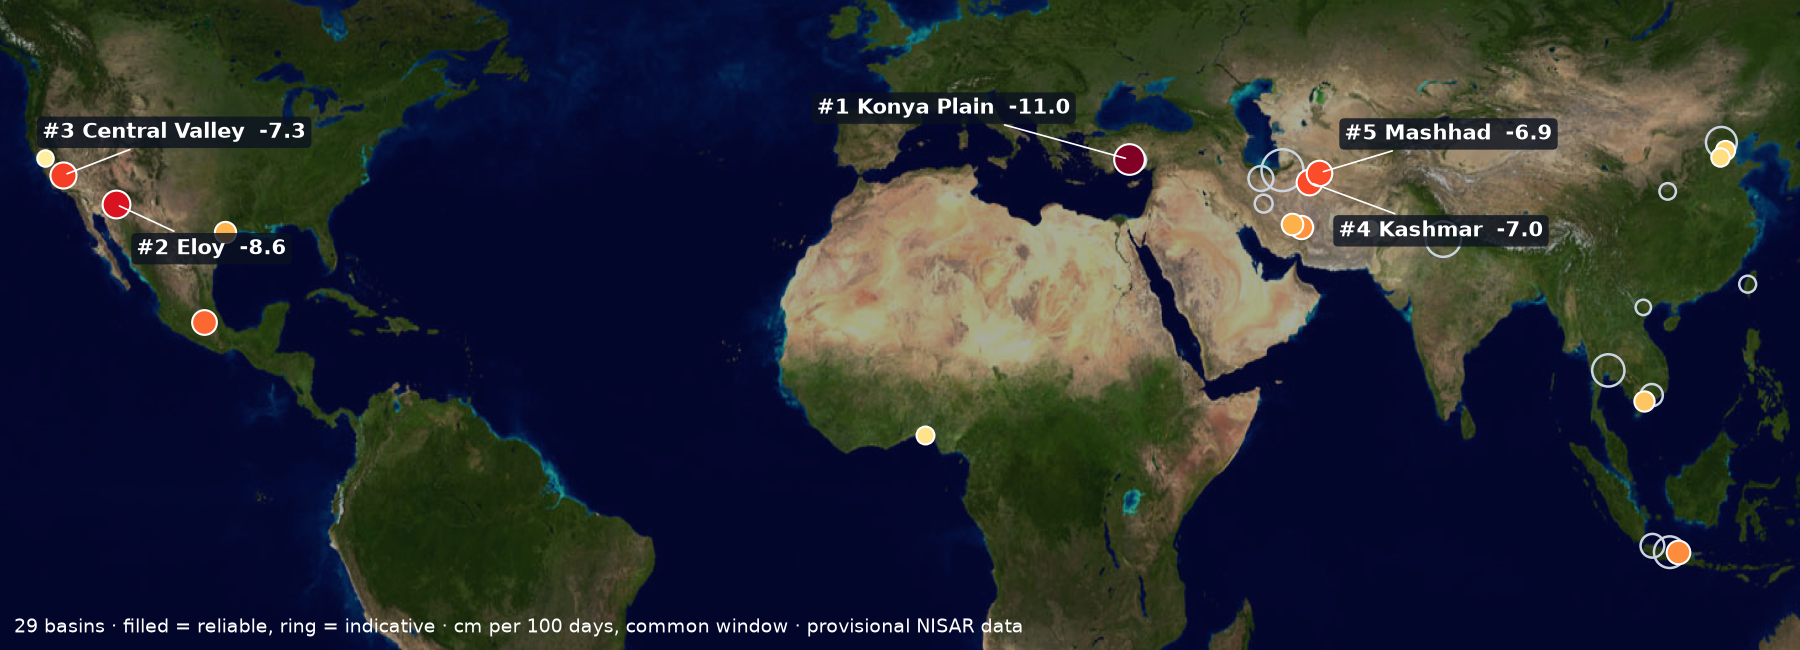
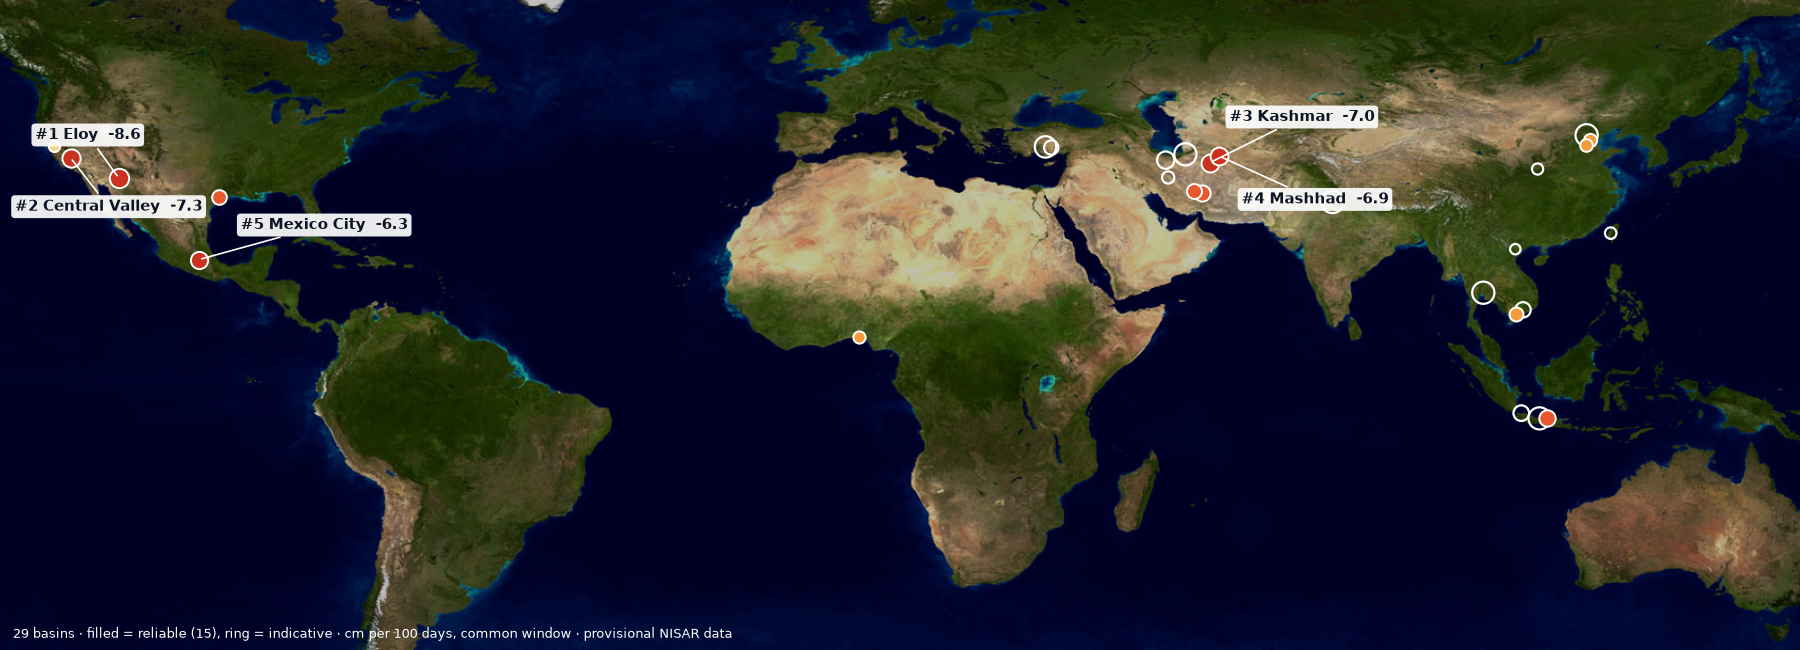
[PC1] giris haritasi yeni siralamayla (#1 Eloy, 15 guvenilir); tools/render_atlas_world.py ile tekrar uretilebilir

diff --git a/tools/render_atlas_world.py b/tools/render_atlas_world.py
@@ -1,0 +1,71 @@
+"""Render the home-page world map from data/global/atlas.json on NASA Blue Marble (PC1).
+
+Filled circle = reliable, ring = indicative; the five fastest reliable basins are labelled.
+Writes docs/story/media/pc1_atlas_world.png and web/assets/atlas_world.{webp,jpg}.
+Usage: python tools/render_atlas_world.py
+"""
+import json
+from pathlib import Path
+
+import matplotlib
+matplotlib.use("Agg")
+import matplotlib.pyplot as plt
+from PIL import Image
+
+ROOT = Path(__file__).resolve().parent.parent
+atlas = json.loads((ROOT / "data/global/atlas.json").read_text(encoding="utf-8"))
+bm = Image.open(ROOT / "web/assets/bluemarble_2k.jpg")
+
+W, H = 1800, 650
+LAT0, LAT1 = -45, 62
+fig = plt.figure(figsize=(W / 100, H / 100), dpi=100)
+ax = fig.add_axes([0, 0, 1, 1])
+ax.imshow(bm, extent=[-180, 180, -90, 90], aspect="auto")
+ax.imshow([[0]], extent=[-180, 180, -90, 90], cmap="gray", alpha=0.25, aspect="auto")
+ax.set_xlim(-130, 150)
+ax.set_ylim(LAT0, LAT1)
+ax.axis("off")
+
+
+def colour(rate):
+    if rate is None:
+        return "#9aa3b0"
+    if rate <= -6:
+        return "#c8321f"
+    if rate <= -4:
+        return "#e8572e"
+    if rate <= -2:
+        return "#f39c3d"
+    return "#f6d28a"
+
+
+top = [r for r in atlas["regions"] if not r.get("indicative_only")][:5]
+for r in atlas["regions"]:
+    if r.get("lon") is None:
+        continue
+    rate = r.get("rate_cm_per_100d_common")
+    size = 40 + 18 * min(abs(rate or 0), 12)
+    if r.get("indicative_only"):
+        ax.scatter(r["lon"], r["lat"], s=size, facecolors="none", edgecolors="#ffffff", linewidths=1.6, zorder=3)
+    else:
+        ax.scatter(r["lon"], r["lat"], s=size, c=colour(rate), edgecolors="#ffffff", linewidths=1.4, zorder=4)
+
+offsets = [(-60, 28), (-40, -38), (14, 30), (16, -34), (30, 22)]
+for i, r in enumerate(top):
+    dx, dy = offsets[i % len(offsets)]
+    ax.annotate(f"#{i + 1} {r['name'].split(' (')[0]}  {r['rate_cm_per_100d_common']:.1f}",
+                (r["lon"], r["lat"]), xytext=(dx, dy), textcoords="offset points",
+                fontsize=11, fontweight="bold", color="#0d1524",
+                bbox=dict(boxstyle="round,pad=0.25", fc="white", ec="none", alpha=0.92),
+                arrowprops=dict(arrowstyle="-", color="white", lw=1.2), zorder=6)
+
+n, nr = atlas["n_regions"], atlas["n_reliable"]
+ax.text(-128, LAT0 + 2, f"{n} basins · filled = reliable ({nr}), ring = indicative · cm per 100 days, common window · provisional NISAR data",
+        fontsize=9, color="white", zorder=6)
+
+out = ROOT / "docs/story/media/pc1_atlas_world.png"
+fig.savefig(out, dpi=100)
+im = Image.open(out).convert("RGB")
+im.save(ROOT / "web/assets/atlas_world.webp", quality=84, method=6)
+im.save(ROOT / "web/assets/atlas_world.jpg", quality=84, optimize=True, progressive=True)
+print("wrote", out, [r["id"] for r in top])
